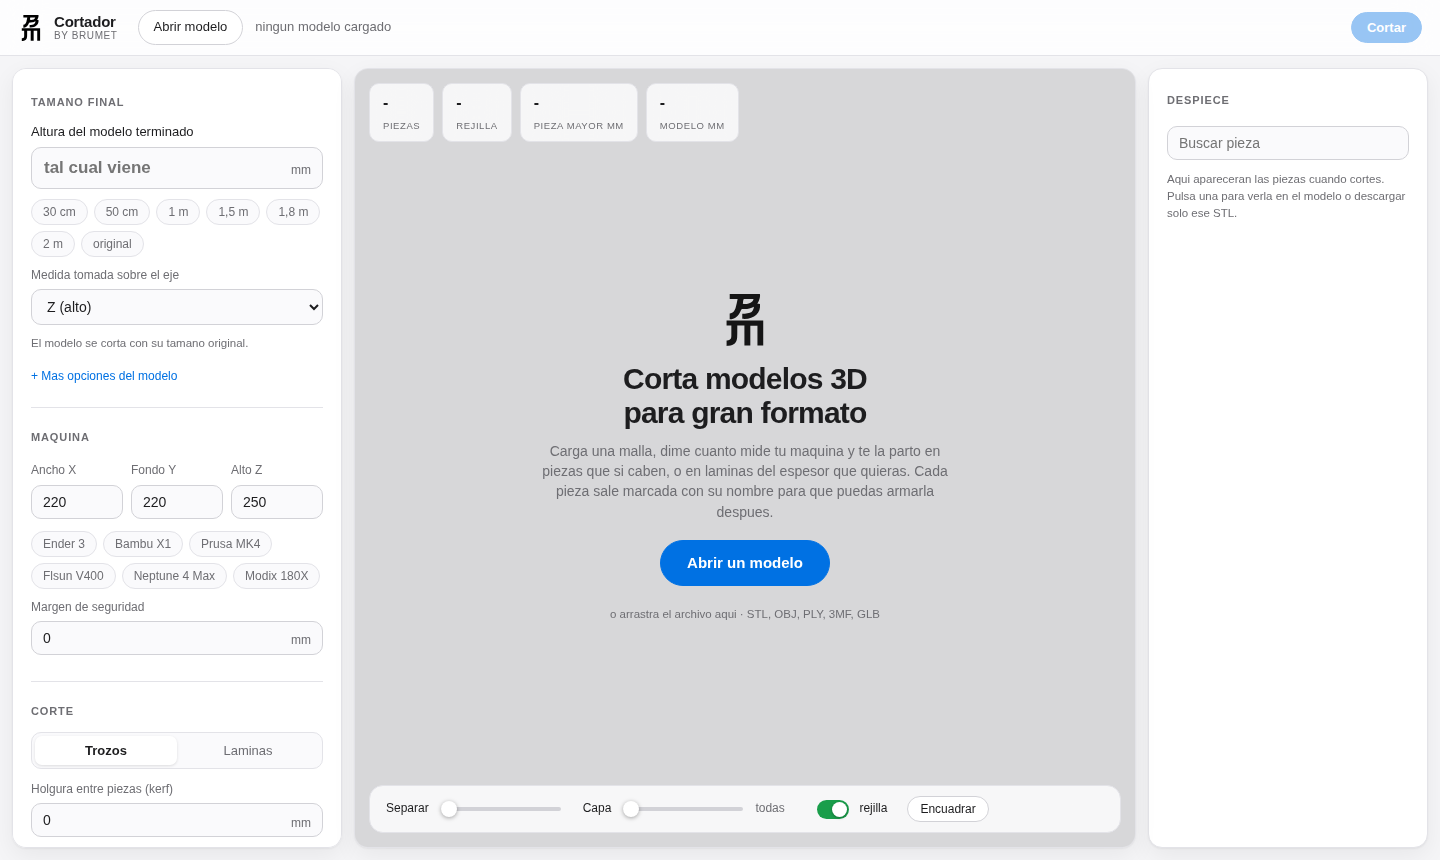
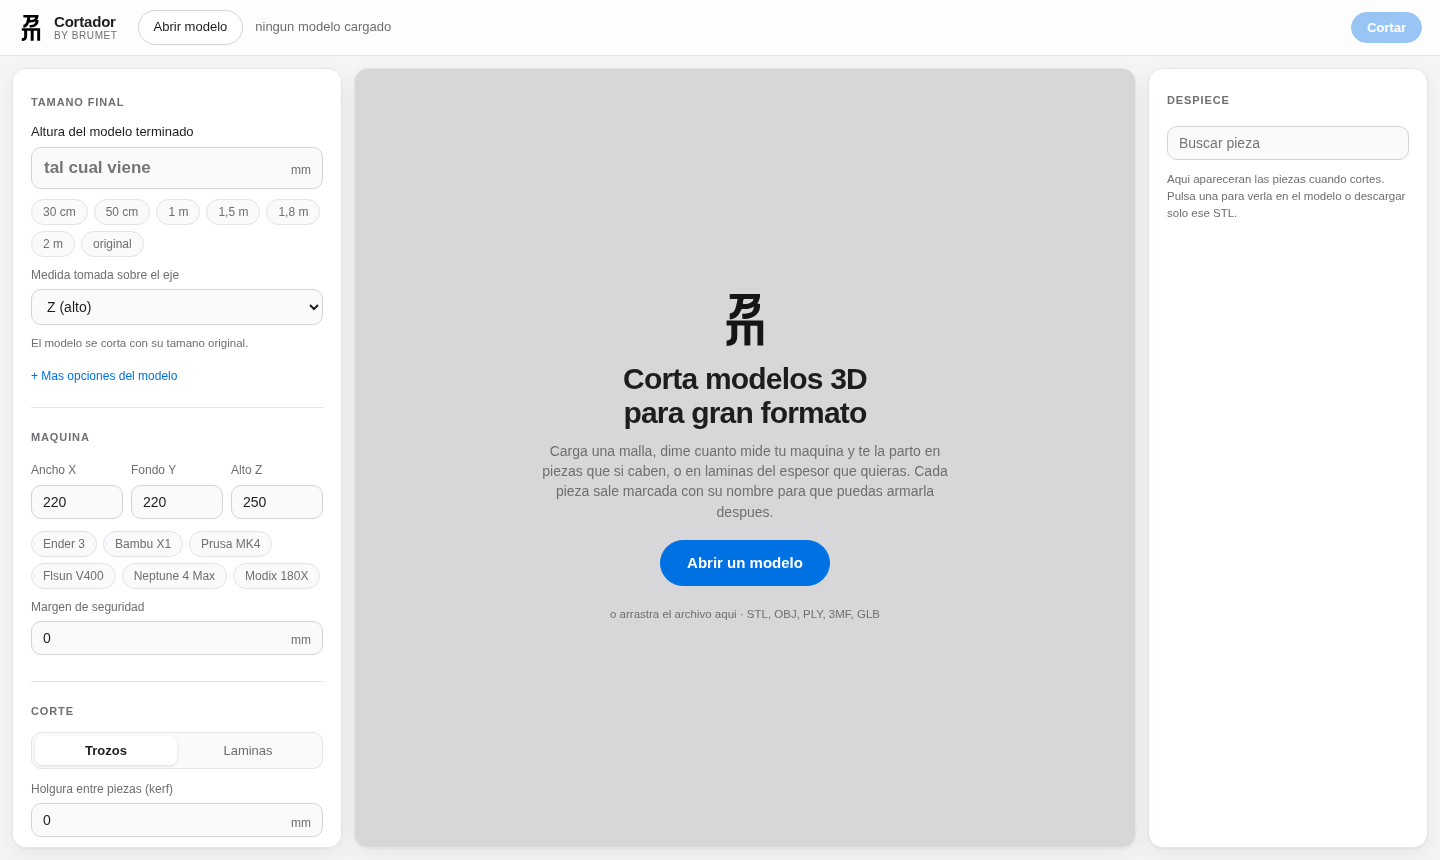
Ocultar los controles del visor hasta que haya un modelo cargado
La pantalla de inicio queda limpia: los indicadores y los deslizadores
aparecen cuando se carga la malla.

Claude-Session: https://claude.ai/code/session_01JgVLBbgaQY1jaN7fB5Dubg

Changed region(s): [[0.25, 0.907, 0.7812, 0.9674], [0.25, 0.0907, 0.5312, 0.1814]]

diff --git a/cortador/web/static/index.html b/cortador/web/static/index.html
@@ -220,14 +220,14 @@
   <section class="lienzo">
     <canvas id="vista"></canvas>
 
-    <div class="hud-superior" id="resumen">
+    <div class="hud-superior" id="resumen" hidden>
       <div class="dato"><b id="r-piezas">-</b><span>piezas</span></div>
       <div class="dato"><b id="r-rejilla">-</b><span>rejilla</span></div>
       <div class="dato"><b id="r-mayor">-</b><span>pieza mayor mm</span></div>
       <div class="dato"><b id="r-tamano">-</b><span>modelo mm</span></div>
     </div>
 
-    <div class="hud-inferior">
+    <div class="hud-inferior" id="controles" hidden>
       <label>Separar <input type="range" id="explosion" min="0" max="150" value="0"></label>
       <label>Capa <input type="range" id="capa" min="0" max="0" value="0"> <span id="capa-txt" class="valor">todas</span></label>
       <label class="fila"><span class="interruptor pequeno"><input type="checkbox" id="ver-rejilla" checked><i></i></span> rejilla</label>

diff --git a/cortador/web/static/app.js b/cortador/web/static/app.js
@@ -138,6 +138,8 @@ async function cargarArchivo(file) {
     $('btn-guia').hidden = true;
     $('btn-abrir').hidden = true;
     $('vacio').hidden = true;
+    $('resumen').hidden = false;
+    $('controles').hidden = false;
     $('pista-lista').hidden = false;
     $('lista').innerHTML = '';
     $('contador').textContent = '';
